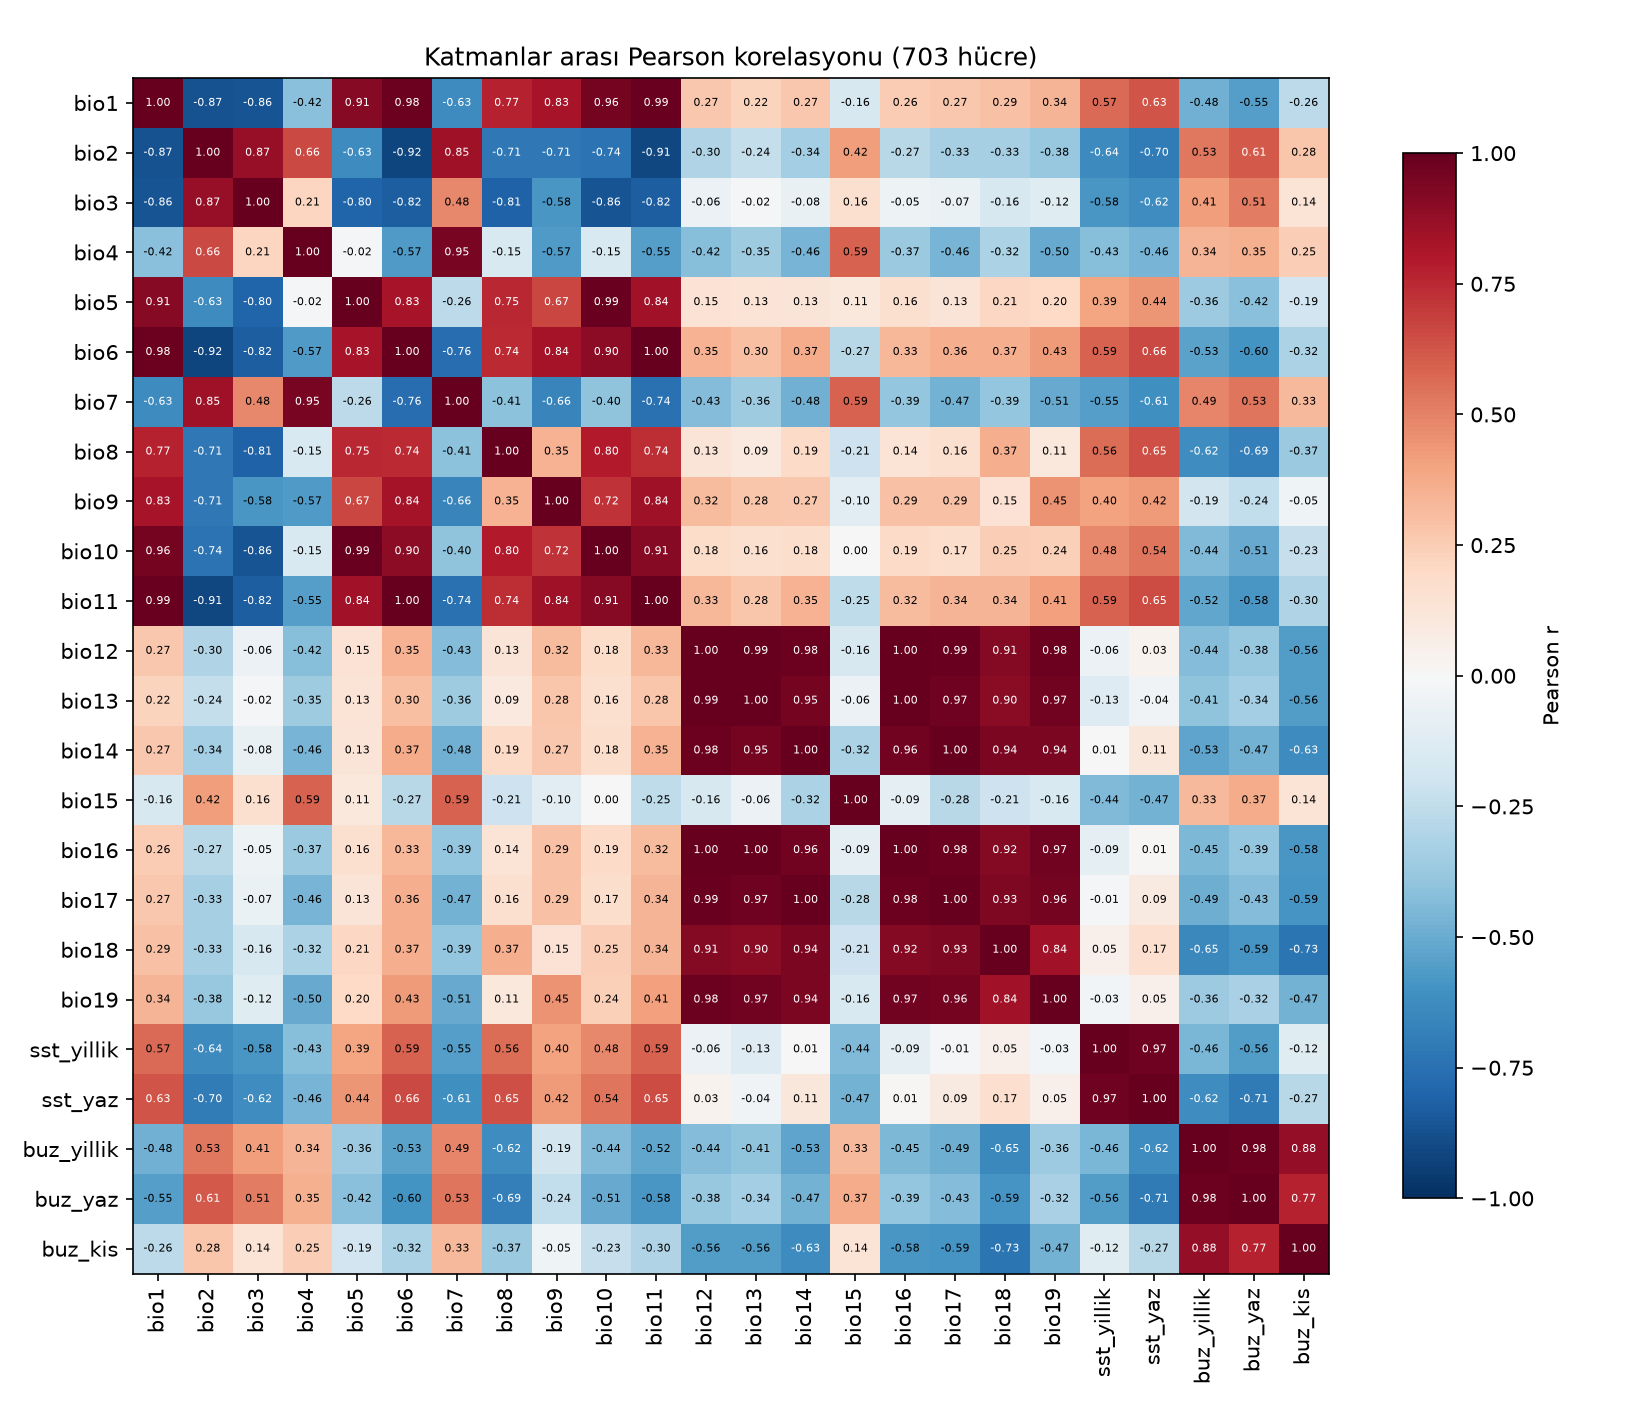
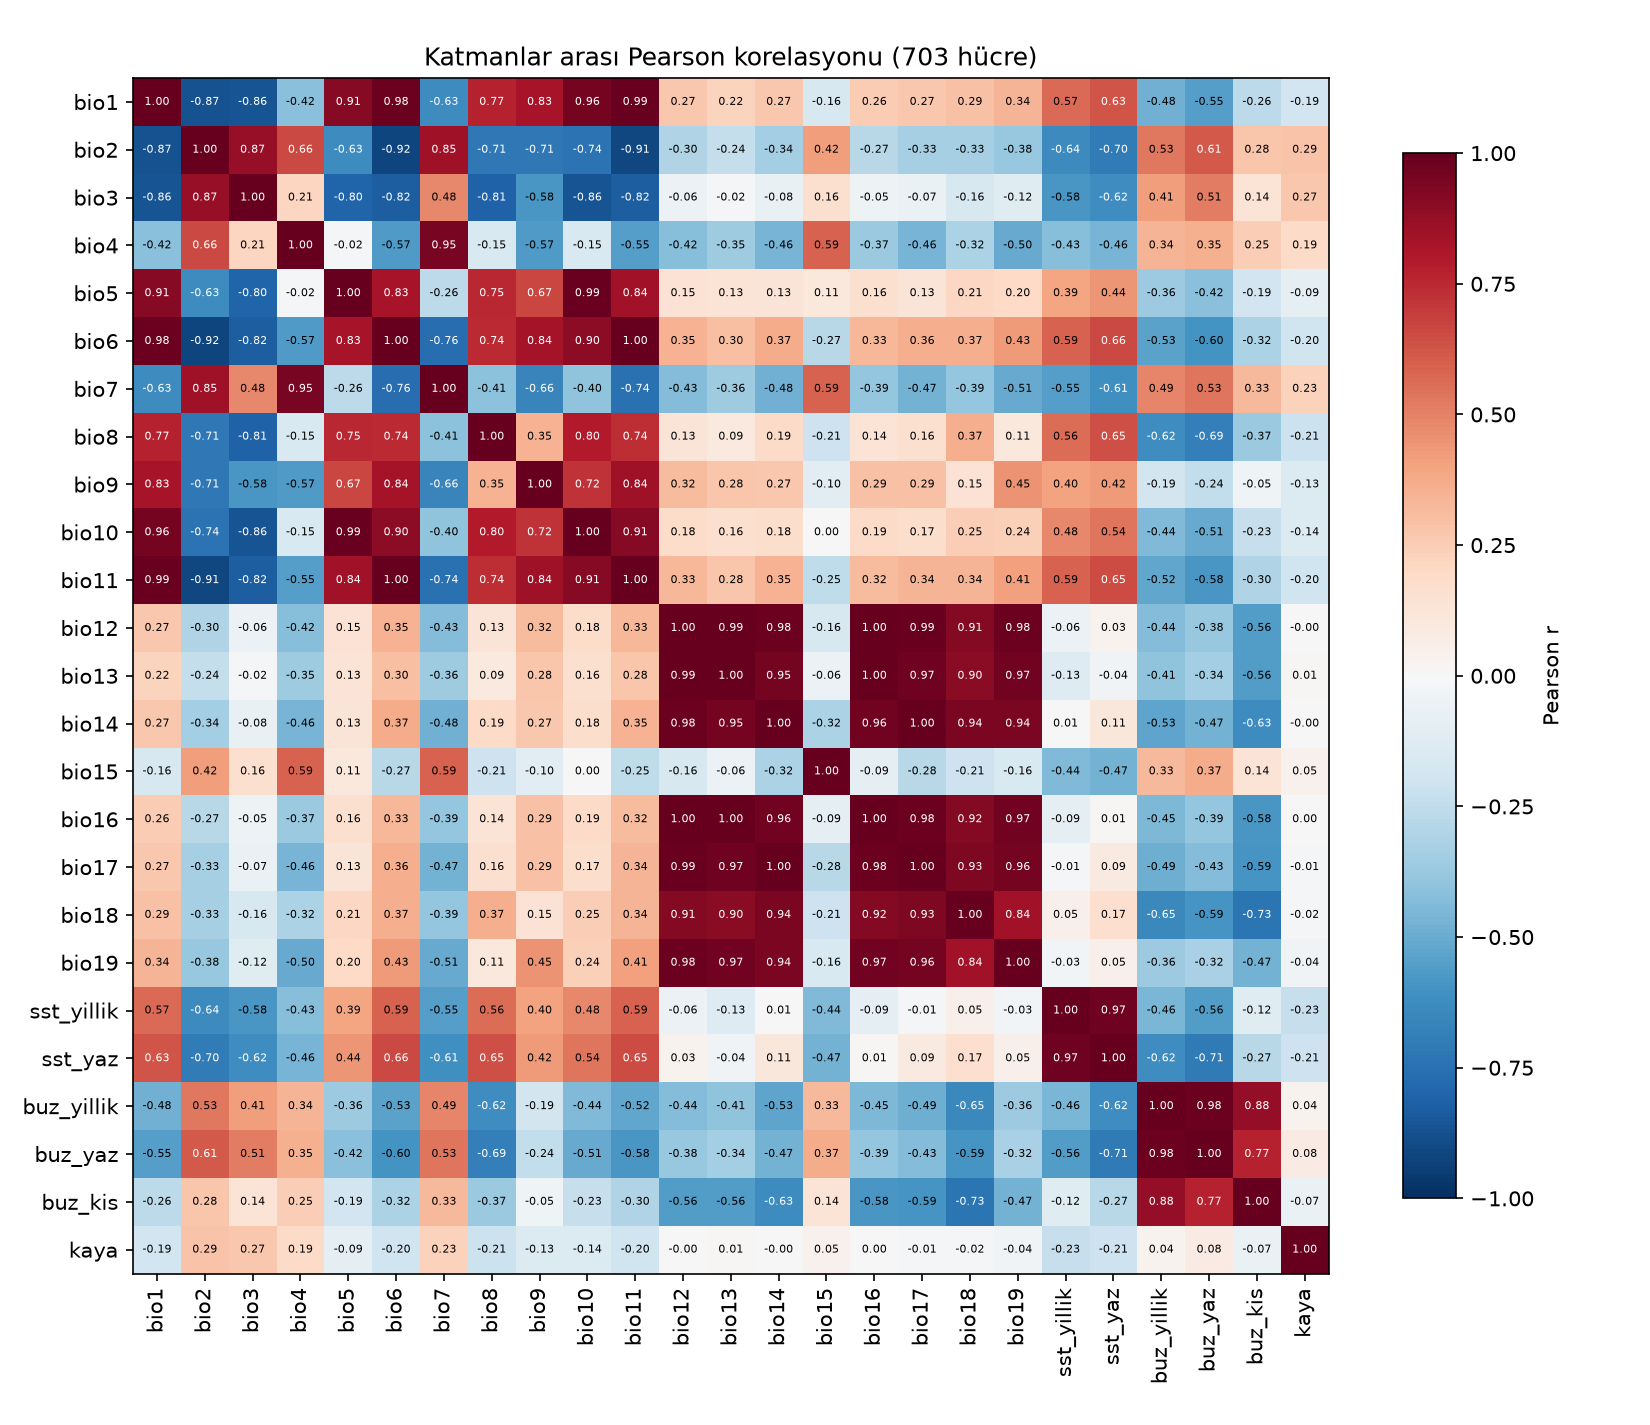
Buzsuz kaya katmanı (SCAR ADD v7.11), değişken önerisi K-020/K-021

diff --git a/kaya/kaya_hesapla.py b/kaya/kaya_hesapla.py
@@ -1,0 +1,80 @@
+"""Buzsuz kaya katmanı: her ERA5 hücresinde alanın yüzde kaçı buzsuz kaya (rock outcrop)?
+
+Kullanım:  ../era5/.venv/bin/python -I kaya_hesapla.py
+
+Girdi:  veri_ham/add_rock_outcrop_high_res_polygon_v7_11.gpkg
+        SCAR Antarctic Digital Database — High resolution vector polygons of Antarctic rock outcrop, v7.11
+        (Skachkova, Gerrish, Fretwell & Cooper 2025, UK Polar Data Centre, doi:10.5285/815525ca-cefe-4fbf-9224-3ee784e7de4e,
+        CC BY 4.0). Bu bölgede (20°B–80°B) 2024/25 Sentinel-2 mozaiğinden otomatik çıkarılmıştır.
+Çıktı:  ../era5/output/kaya.asc, .tif, .png  (diğer 24 katmanla birebir aynı ızgara; MaxEnt aynı klasörü ister)
+
+Yöntem: ERA5 hücresi (0.25° × 0.25°) kenarları sıklaştırılarak eşit alanlı Lambert azimutal (Güney Kutbu)
+projeksiyonuna çevrilir; kaya poligonlarıyla kesişim alanı / hücre alanı × 100 = % kaya örtüsü.
+Denizdeki ve tamamen buzla kaplı hücreler 0'dır (NoData değil).
+"""
+import sys
+from pathlib import Path
+
+import numpy as np
+
+KOK = Path(__file__).resolve().parent
+sys.path.insert(0, str(KOK.parent / "era5"))
+from ortak import asc_baslik, asc_oku, asc_yaz, png_yaz, tif_yaz  # noqa: E402
+
+import geopandas as gpd  # noqa: E402
+import pyogrio  # noqa: E402
+from shapely.geometry import box  # noqa: E402
+from shapely.ops import unary_union  # noqa: E402
+
+GPKG = KOK / "veri_ham" / "add_rock_outcrop_high_res_polygon_v7_11.gpkg"
+KATMAN = "add_rock_outcrop_high_res_polygon_v7_11"   # dosyada ayrıca "layer_styles" katmanı var
+ERA5_CIKTI = KOK.parent / "era5" / "output"
+ESIT_ALAN = "+proj=laea +lat_0=-90 +lon_0=0 +datum=WGS84 +units=m +no_defs"
+
+
+def main():
+    h = {s.split()[0]: float(s.split()[1]) for s in asc_baslik(ERA5_CIKTI / "bio1.asc")}
+    nrow, ncol, c = int(h["nrows"]), int(h["ncols"]), h["cellsize"]
+    bati, guney = h["xllcorner"], h["yllcorner"]
+    kuzey = guney + nrow * c
+
+    # ERA5 hücreleri (satır 0 = en kuzey), kenarlar sıklaştırılarak (eğri kenarlar doğru projekte edilsin)
+    hucreler = gpd.GeoDataFrame(
+        {"satir": np.repeat(np.arange(nrow), ncol), "sutun": np.tile(np.arange(ncol), nrow)},
+        geometry=[box(bati + j * c, kuzey - (i + 1) * c, bati + (j + 1) * c, kuzey - i * c).segmentize(0.01)
+                  for i in range(nrow) for j in range(ncol)],
+        crs="EPSG:4326",
+    ).to_crs(ESIT_ALAN)
+
+    # Yalnızca alanımızı kapsayan poligonları oku (dosyanın kendi CRS'inde sınır kutusu, 0.5° pay)
+    bilgi = pyogrio.read_info(GPKG, layer=KATMAN)
+    alan = gpd.GeoSeries([box(bati - 0.5, guney - 0.5, bati + ncol * c + 0.5, kuzey + 0.5).segmentize(0.05)],
+                         crs="EPSG:4326").to_crs(bilgi["crs"])
+    kaya = pyogrio.read_dataframe(GPKG, layer=KATMAN, bbox=tuple(alan.total_bounds))
+    print(f"katman: {bilgi.get('layer_name', '?')} | CRS: {bilgi['crs']} | alandaki poligon: {len(kaya)}")
+    kaya = kaya.to_crs(ESIT_ALAN)
+    kaya["geometry"] = kaya.geometry.make_valid()
+    kaya_birlesik = unary_union(kaya.geometry.values)   # örtüşen poligonlar iki kez sayılmasın
+
+    oran = np.zeros((nrow, ncol))
+    for hucre in hucreler.itertuples():
+        kesisim = hucre.geometry.intersection(kaya_birlesik).area
+        oran[hucre.satir, hucre.sutun] = 100 * kesisim / hucre.geometry.area
+
+    izg = {"ncols": ncol, "nrows": nrow, "xllcorner": bati, "yllcorner": guney, "cellsize": c,
+           "bati": bati, "kuzey": kuzey}
+    asc_yaz(ERA5_CIKTI / "kaya.asc", oran, izg)
+    tif_yaz(ERA5_CIKTI / "kaya.tif", oran, izg)
+    kara = ~np.isfinite(asc_oku(ERA5_CIKTI / "ham" / "sst_yillik.asc"))
+    png_yaz(ERA5_CIKTI / "kaya.png", oran, izg, "Buzsuz kaya örtüsü (SCAR ADD v7.11)", "% hücre alanı",
+            kara, "copper_r", donem="Sentinel-2 2024/25",
+            kaynak="SCAR Antarctic Digital Database v7.11 (Skachkova vd. 2025)")
+
+    dolu = oran > 0
+    print(f"kaya içeren hücre: {int(dolu.sum())}/{oran.size} | en yüksek: %{oran.max():.1f} | "
+          f"kaya içeren hücrelerde ortanca: %{np.median(oran[dolu]):.2f} | toplam kaya alanı: "
+          f"{kaya_birlesik.intersection(unary_union(hucreler.geometry.values)).area / 1e6:.0f} km²")
+
+
+if __name__ == "__main__":
+    main()

diff --git a/era5/ortak.py b/era5/ortak.py
@@ -95,7 +95,8 @@ def _derece(deger, yon):
     return f"{abs(deger):g}°{harf}"
 
 
-def png_yaz(yol, dizi, izg, baslik, birim, kara_maskesi=None, cmap="viridis", donem="2000–2025", noktalar=()):
+def png_yaz(yol, dizi, izg, baslik, birim, kara_maskesi=None, cmap="viridis", donem="2000–2025", noktalar=(),
+            kaynak="ERA5 (Hersbach vd. 2020)"):
     """Önizleme haritası. Pikseller ERA5 hücreleridir; görüntü bilerek yumuşatılmaz.
 
     noktalar: (boylamlar, enlemler, scatter ayarları) üçlüleri — ör. tür kayıtlarını üstüne çizmek için.
@@ -148,7 +149,7 @@ def png_yaz(yol, dizi, izg, baslik, birim, kara_maskesi=None, cmap="viridis", do
     cb.ax.tick_params(labelsize=8.5)
 
     fig.text(0.11, 0.12 / fig_yuk,
-             f"Veri: ERA5 (Hersbach vd. 2020), {donem}. Izgara 0.25°: her kare bir ERA5 hücresidir,\n"
+             f"Veri: {kaynak}, {donem}. Izgara 0.25°: her kare bir ERA5 hücresidir,\n"
              "görüntü bilerek yumuşatılmamıştır. Siyah çizgi: ERA5 kara–deniz sınırı (hücre kenarları).",
              fontsize=7, color="0.35", va="bottom")
     fig.savefig(yol, dpi=220)

diff --git a/era5/dogrula.py b/era5/dogrula.py
@@ -3,7 +3,7 @@
 Kullanım:  .venv/bin/python dogrula.py
 
 Kontroller:
- 1. 24 .asc başlığı birebir aynı (ncols, nrows, köşe, cellsize, NODATA)
+ 1. tüm .asc başlıkları birebir aynı (ncols, nrows, köşe, cellsize, NODATA)
  2. Hiçbir MaxEnt katmanında NoData/NaN yok
  3. Rothera hücresi: Bio1 sıfırın birkaç derece altında; Bio5 > Bio1 > Bio6; Bio12 > 0
  4. Yaz deniz yüzeyi sıcaklığı yaklaşık −2 … birkaç °C; kış deniz buzu > yaz deniz buzu (deniz hücrelerinde)
@@ -31,7 +31,7 @@ def main():
     basliklar = {ad: asc_baslik(CIKTI / f"{ad}.asc") for ad in KATMANLAR}
     referans = basliklar["bio1"]
     farkli = [ad for ad, b in basliklar.items() if b != referans]
-    kontrol(not farkli, f"24 başlık aynı {'' if not farkli else farkli}")
+    kontrol(not farkli, f"{len(KATMANLAR)} başlık aynı {'' if not farkli else farkli}")
     print("     " + " | ".join(referans))
 
     veri = {ad: asc_oku(CIKTI / f"{ad}.asc") for ad in KATMANLAR}

diff --git a/era5/ayarlar.py b/era5/ayarlar.py
@@ -29,6 +29,7 @@ DS_AYLIK = "reanalysis-era5-single-levels-monthly-means"
 # Doğrulama noktası: Rothera Araştırma İstasyonu
 ROTHERA = {"enlem": -67.57, "boylam": -68.13}
 
-# MaxEnt'e aday 24 katman (değişken SEÇİMİ öğrenci + danışmanındır)
+# MaxEnt'e aday katmanlar (değişken SEÇİMİ öğrenci + danışmanındır)
 DENIZEL = ["sst_yillik", "sst_yaz", "buz_yillik", "buz_yaz", "buz_kis"]
-KATMANLAR = [f"bio{i}" for i in range(1, 20)] + DENIZEL
+KARASAL = ["kaya"]   # buzsuz kaya örtüsü, ../kaya/kaya_hesapla.py (SCAR ADD v7.11)
+KATMANLAR = [f"bio{i}" for i in range(1, 20)] + DENIZEL + KARASAL

diff --git a/era5/output/README.md b/era5/output/README.md
@@ -1,6 +1,6 @@
 # ERA5 tabanlı iklim ve denizel katmanlar — Marguerite Körfezi, 2000–2025
 
-MaxEnt'in **"Environmental layers"** girdisi olarak hazırlanmış 24 katman (19 biyoklimatik + 5 denizel).
+MaxEnt'in **"Environmental layers"** girdisi olarak hazırlanmış 25 katman (19 biyoklimatik + 5 denizel + 1 buzsuz kaya).
 Kod: `../` (bu klasörün bir üstü). Kararların gerekçeleri: `../../docs/KARARLAR.md`.
 
 > **Bu katmanlar hakemli bir veri seti değildir.** Ham ERA5 reanalizinden, WorldClim / `dismo::biovars`
@@ -114,6 +114,13 @@ Katman başına min/maks/ortalama/NoData/doldurulan hücre: `ozet_istatistik.csv
 |r| > 0.8 olan **49 çift**: `yuksek_korelasyon.txt`. **Değişken seçimi bu çalışmada yapılmamıştır**; öğrenci ve danışman tarafından yapılacaktır.
 Not: Doldurulmuş kara hücreleri denizel katmanlarda tekrarlanan değerler içerdiği için bu katmanların korelasyonlarını bir miktar etkiler.
 
+## 6b. Buzsuz kaya katmanı (`kaya`) — ERA5 değil
+
+- **Kaynak:** SCAR Antarctic Digital Database, *High resolution vector polygons of Antarctic rock outcrop*, v7.11 — Skachkova, A., Gerrish, L., Fretwell, P. & Cooper, P. (2025), NERC EDS UK Polar Data Centre, https://doi.org/10.5285/815525ca-cefe-4fbf-9224-3ee784e7de4e (CC BY 4.0). Bu bölge (20°B–80°B) 2024/25 Sentinel-2 mozaiğinden otomatik çıkarılmıştır. İndirme: 2026-10-20.
+- **Hesap (`../../kaya/kaya_hesapla.py`):** her 0.25° hücrenin kaya poligonlarıyla kesişim alanı / hücre alanı × 100, eşit alanlı Lambert azimutal (Güney Kutbu) projeksiyonunda. Birim: **% hücre alanı**. Denizdeki ve tamamen buzla kaplı hücreler 0 (NoData değil).
+- **Sonuç:** 343/703 hücrede kaya; en yüksek %15.3; toplam 1856 km². Diğer katmanlarla |r| ≤ 0.29.
+- **Sınırlılık:** Kaya örtüsü statiktir (tek bir yaz); hücre ortalaması koloni ölçeğindeki zemin özelliklerini (eğim, bakı, kar birikimi) göstermez.
+
 ## 7. Sınırlılıklar
 
 - **Çözünürlük:** 0.25° ≈ enlemde ~28 km, bu enlemde boylamda ~10 km. Koloni ölçeğindeki mikroklima temsil edilmez; kıyı hücreleri kara ve denizi karışık temsil eder.
@@ -139,6 +146,7 @@ Not: Doldurulmuş kara hücreleri denizel katmanlarda tekrarlanan değerler içe
 |---|---|
 | `bio1.asc` … `bio19.asc` | Biyoklimatik katmanlar (MaxEnt girdisi) |
 | `sst_yillik.asc`, `sst_yaz.asc`, `buz_yillik.asc`, `buz_yaz.asc`, `buz_kis.asc` | Denizel katmanlar, kara dolduruldu (MaxEnt girdisi) |
+| `kaya.asc` | Buzsuz kaya örtüsü (% hücre alanı; SCAR ADD v7.11, Bölüm 6b) |
 | `*.tif` | Aynı katmanların GeoTIFF kopyaları (QGIS için) |
 | `*.png` | Önizlemeler (220 dpi; pikseller bilerek yumuşatılmadı) |
 | `ham/` | Denizel katmanların doldurulmamış hali |

diff --git a/docs/KARARLAR.md b/docs/KARARLAR.md
@@ -144,3 +144,20 @@
 - **Durum:** Geçerli
 - **Karar:** Proje `zynordev/adelie-maxent-2204c` (**private**) deposunda. Commit yazarı: Halil Erdem Yanık `<159820410+zynordev@users.noreply.github.com>` (GitHub noreply adresi; commit'ler hesaba bağlanır, gerçek e-posta geçmişe yazılmaz). Mevcut 6 yerel commit push öncesi bu kimlikle yeniden yazıldı.
 - **Depoda olmayanlar:** `.venv/`, ham veriler (`era5/veri_ham/`, `gbif/ham/` — scriptlerle yeniden indirilebilir), CDS anahtarı ve GBIF şifresi (proje dışında; her push öncesi tüm geçmiş taranır).
+
+### K-020 — Değişken seçimi (öğrencinin önerisi)
+- **Tarih:** 2026-10-20
+- **Karar veren:** Öğrenci → Danışman onayı bekleniyor
+- **Durum:** Onay bekliyor (danışman)
+- **Karar:** `kaya` (buzsuz kaya), `bio18` (en sıcak çeyreğin yağışı = üreme mevsimi yağışı), `sst_yillik`, `buz_yillik`. Üreme mevsimi sıcaklığı için seçim yapılmadı (adaylar: `bio10`, `bio5`, `bio1` veya hiçbiri).
+- **Gerekçe (literatür, `docs/literatur/degisken_literaturu.md`):** kaya + SST + deniz buzu → Cimino vd. 2016; bio18 → Chapman vd. 2011, Cimino vd. 2025 (kar/ıslanma).
+- **Eşdoğrusallık:** Seçilen 4 katman arası en yüksek |r| = 0.65 (bio18 ↔ buz_yillik) → Dormann vd. 2013 eşiği (0.7) altında. Üç sıcaklık adayının seçilenlerle en yüksek |r|'si 0.57 (bio1 ↔ sst_yillik); adaylar kendi aralarında 0.91–0.99 (en fazla biri seçilmeli).
+- **Not:** Cimino vd. 2016 SST ve deniz buzunun **yaz** ortalamalarını kullandı; öğrenci **yıllık** olanları seçti (sst_yillik ↔ sst_yaz r = 0.97, buz_yillik ↔ buz_yaz r = 0.98 → bilgi neredeyse aynı; gerekçe raporda yazılmalı).
+
+### K-021 — Buzsuz kaya katmanı
+- **Tarih:** 2026-10-20
+- **Karar veren:** Claude (öğrencinin K-020 seçimi üzerine)
+- **Durum:** Geçerli
+- **Karar:** SCAR Antarctic Digital Database "High resolution vector polygons of Antarctic rock outcrop" v7.11 (Skachkova vd. 2025, doi:10.5285/815525ca-cefe-4fbf-9224-3ee784e7de4e, CC BY 4.0; bu bölgede 2024/25 Sentinel-2'den otomatik çıkarılmış) → her ERA5 hücresinde **% kaya örtüsü** (eşit alanlı Lambert azimutal projeksiyonda kesişim alanı / hücre alanı). Denizde/buzla kaplı hücreler 0. `kaya/kaya_hesapla.py` → `era5/output/kaya.asc`.
+- **Sonuç:** 343/703 hücrede kaya; en yüksek %15.3; toplam 1856 km². 67 MaxEnt noktasının 51'inin hücresinde kaya var. ERA5'in "deniz" saydığı 48 penguen hücresinin 33'ünde kaya var (ERA5 kaba maskesinde görünmeyen küçük adalardaki koloniler); kaya olmayan 16 hücre büyük olasılıkla deniz gözlemleri → K-018'deki kara/deniz sorusu için önemli bilgi.
+- **Eşdoğrusallık:** Diğer tüm katmanlarla |r| ≤ 0.29.

diff --git a/docs/ASAMALAR.md b/docs/ASAMALAR.md
@@ -9,7 +9,7 @@
 | 2 | CDS hesabı, lisans onayları, API anahtarı | Öğrenci | ✅ | 2026-10-19; anahtar `~/.cdsapirc` (izin 600) |
 | 3 | ERA5 iklim katmanlarının üretimi (19 Bio + 5 denizel) | Claude (öğrencinin isteğiyle) | ✅ | 2026-10-20 01:53; 24 katman `era5/output/`, tüm doğrulamalar geçti (README orada) |
 | 4 | GBIF kayıtlarının indirilmesi ve temizlenmesi (2000–2026) | Öğrenci | 🟡 | 2026-10-19 indirildi (1001 kayıt, DOI 10.15468/dl.jt3gt7, K-017); öğrencinin isteğiyle temizlendi → 67 nokta `gbif/temiz/adelie_maxent.csv` (K-018, gözden geçirme bekliyor) |
-| 5 | Korelasyon matrisine göre değişken seçimi | Öğrenci + Danışman | ⏸ | Matris hazır: `era5/output/korelasyon_matrisi.png`, 49 çift \|r\| > 0.8 |
+| 5 | Korelasyon matrisine göre değişken seçimi | Öğrenci + Danışman | 🟡 | Öğrenci önerisi K-020 (kaya, bio18, sst_yillik, buz_yillik; üreme sıcaklığı açık) → danışman onayı |
 | 6 | MaxEnt çalıştırma (AUC, jackknife, katkı tabloları) | Öğrenci | ⬜ | Eşik AUC > 0.70 |
 | 7 | Haritanın QGIS'te görselleştirilmesi, danışmana iletim | Öğrenci | ⬜ | |
 | 8 | Rapor (Özet → Amaç → Giriş → Yöntem → Bulgular → Sonuç ve Tartışma → Öneriler → Kaynaklar) | Öğrenci | ⬜ | Sınırlılıklar şeffaf yazılacak |

diff --git a/docs/GUNLUK.md b/docs/GUNLUK.md
@@ -4,6 +4,16 @@
 
 ---
 
+## 2026-10-20 — Değişken önerisi ve buzsuz kaya katmanı
+
+**Yapılanlar**
+- Öğrenci değişkenleri önerdi: kaya, bio18, sst_yillik, buz_yillik; üreme sıcaklığında karar veremedi (K-020, danışman onayı bekliyor). Seçilenler arası en yüksek |r| = 0.65.
+- Buzsuz kaya katmanı üretildi (K-021): SCAR ADD v7.11 (288 MB GeoPackage, boyutu katalogla aynı) → `era5/output/kaya.asc/.tif/.png`. 343/703 hücrede kaya, en yüksek %15.3.
+- 25 katmanla korelasyon ve doğrulama yeniden çalıştı: tüm kontroller geçti.
+- **Bulgu:** ERA5'in "deniz" saydığı 48 penguen hücresinin 33'ünde kaya var → bunlar küçük adalardaki koloniler; 16 hücrede kaya yok → büyük olasılıkla deniz gözlemleri.
+
+---
+
 ## 2026-10-20 — Değişken seçimi için literatür taraması
 
 **Yapılanlar**
